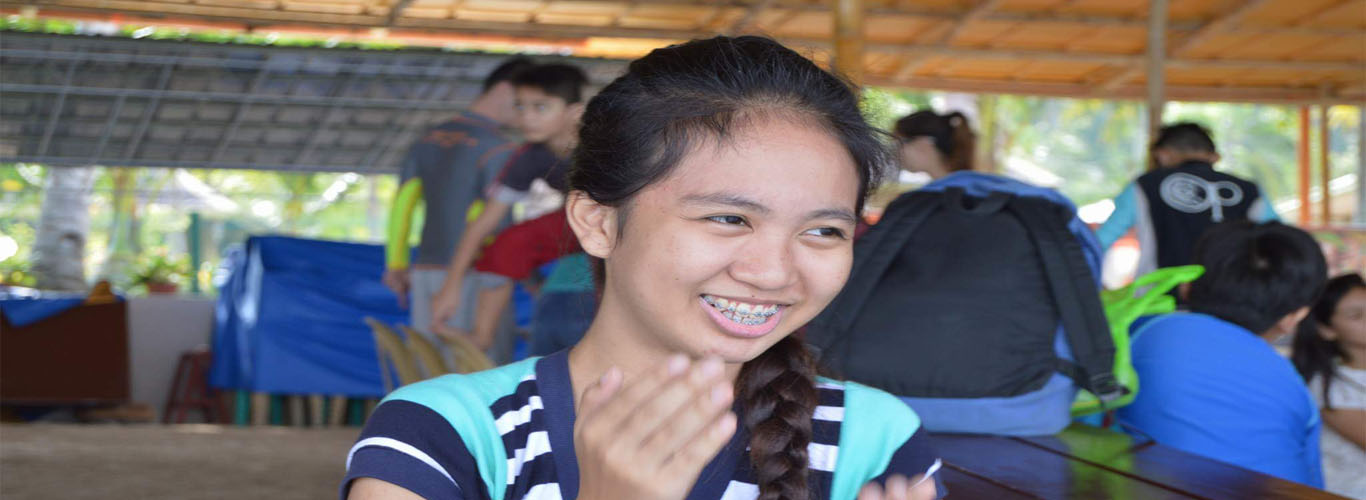
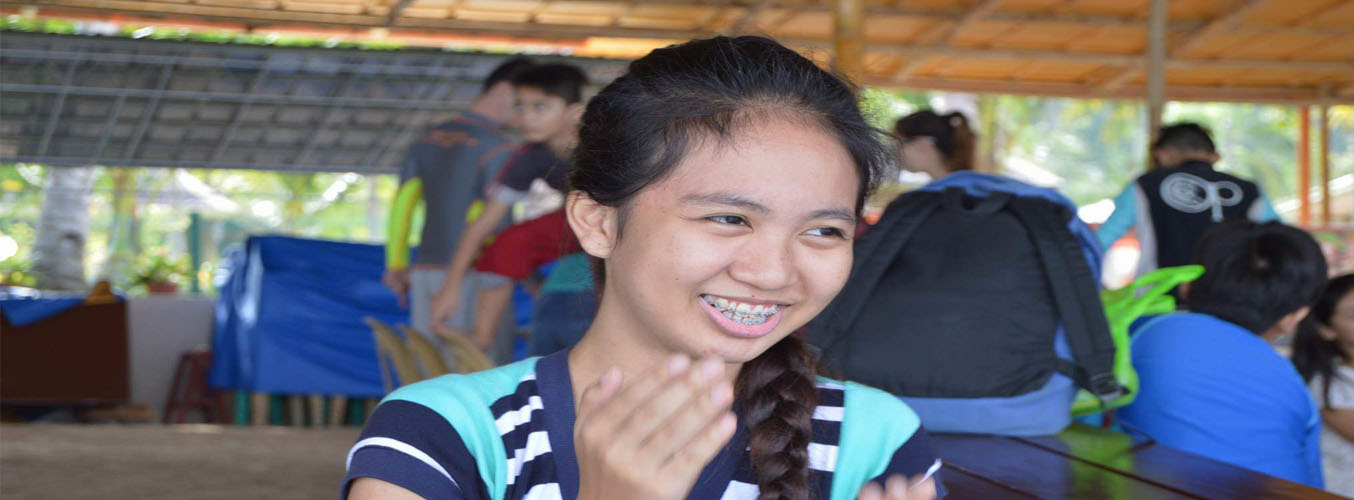
resize and final slideshow for the contact page

diff --git a/contact.html b/contact.html
@@ -4,16 +4,14 @@
 		<title> Profile </title>
 		<link href="styles/cont.css" rel="stylesheet">
 		<link href="https://maxcdn.bootstrapcdn.com/font-awesome/4.7.0/css/font-awesome.min.css" rel="stylesheet">
-		
 	</head>
 		<div id="container">
-			<img class="slides" src="images/slide1.jpg"/>
-			<img class="slides" src="images/slide2.jpg"/>
-			<img class="slides" src="images/slide3.jpeg"/>
+			<img class="slides" src="images/slide1.jpg" style="width: 1354px; height: 500px;"/>
+			<img class="slides" src="images/slide2.jpg" style="width: 1354px; height: 500px;"/>
+			<img class="slides" src="images/slide3.jpeg" style="width: 1354px; height: 500px;"/>
 			<button class="btn" onclick="plusIndex(-1)" id="btn1">&#10094;</button>
 			<button class="btn" onclick="plusIndex(1)" id="btn2">&#10095;</button>
 		</div>
-
 		<script>
 			var index = 1;
 			function plusIndex(n){
@@ -39,16 +37,14 @@
 					x[i].style.display = "none";
 				}
 				if(index > x.length){
-					index - 1
+					index = 1
 				}
 				x[index-1].style.display = "block";
 				index++;
 				setTimeout(autoSlide, 2000);
 			}
 		</script>
-		
-
-	}
+	
 	<body>
 		<header>			
 			<nav>		 

diff --git a/styles/cont.css b/styles/cont.css
@@ -6,11 +6,10 @@ body{
 }
 
 header {
-
 	background: rgba(0, 0, 0, 0.4);
 	color: white;
 	padding: 25px 0px 50px 40px;
-	margin-top: -10px;
+	margin-top: 50px;
 }
 
 header h1 {
@@ -24,7 +23,7 @@ header h1 {
 }
 
 #container{
-	width:  80%;
+	width:  100%;
 	height: 450px;
 	margin: 0 auto;
 	position: relative;
@@ -59,6 +58,7 @@ header h1 {
 	position: relative;
 	float: left;
 }
+
 #btn2{
 	position: relative;
 	float: right;
@@ -108,7 +108,7 @@ nav ul li a {
 	margin: 0;
 	padding: 0;
 	position: absolute;
-	top: 80%;
+	top: 100%;
 	left: 50%;
 	transform: translate(-50%);
 	display: flex;
@@ -130,6 +130,7 @@ nav ul li a {
 	border: 1px solid rgba(0,0,0,1);
 	transform: rotate(45deg);
 }
+
 .icons li a .fa{
 	transform: rotate(-45deg);	
 }
